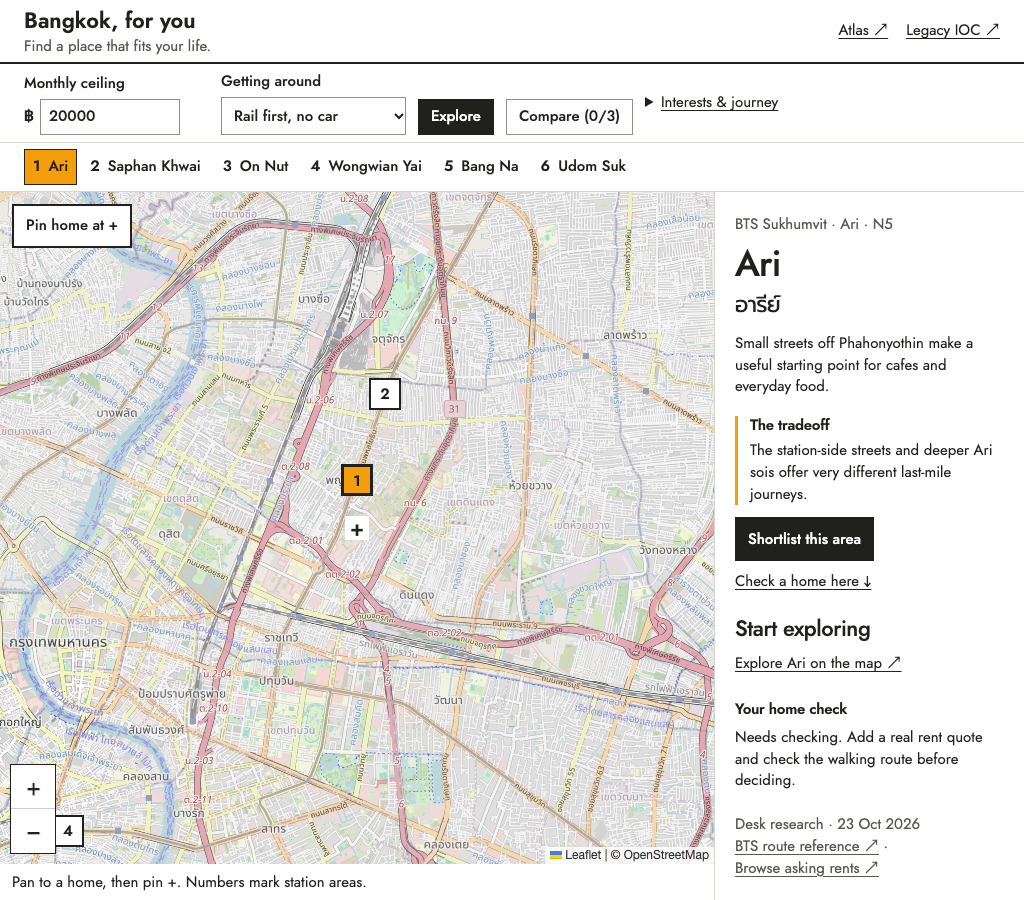
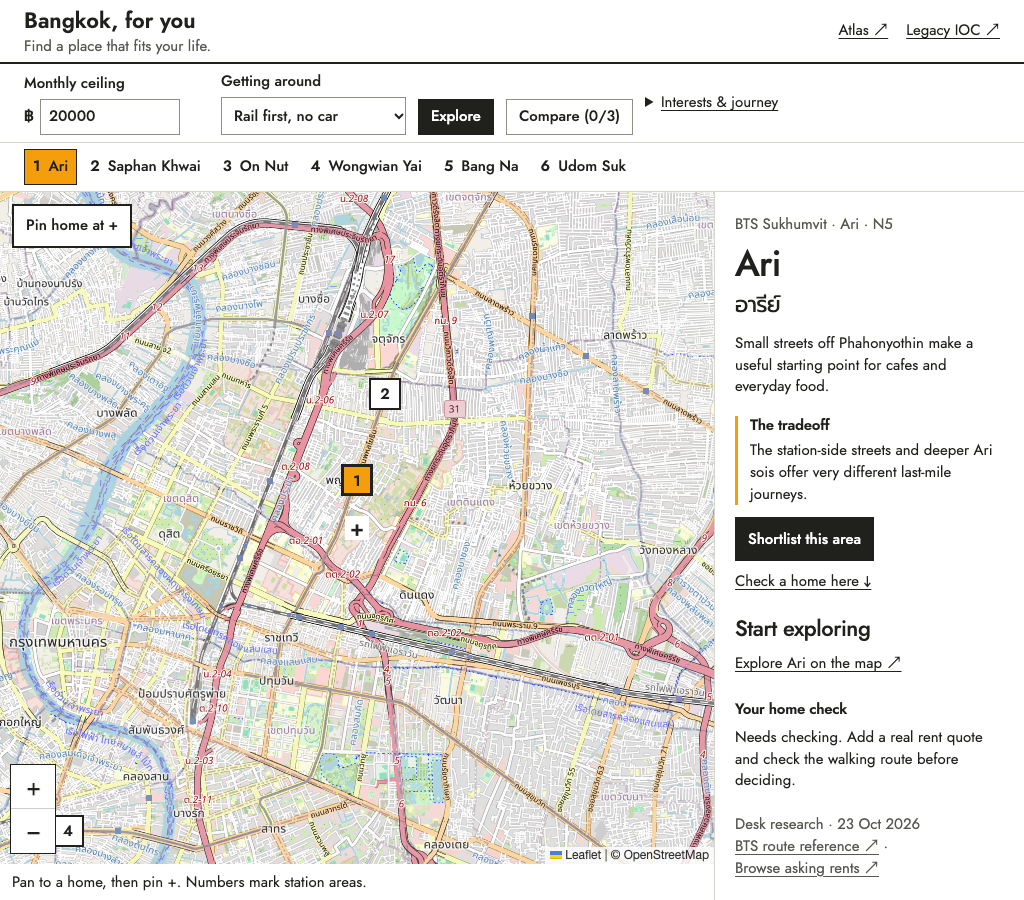
Record production browser verification and preservation checks

diff --git a/docs/revival-2026-10-23/verification/README.md b/docs/revival-2026-10-23/verification/README.md
@@ -7,3 +7,7 @@ Independent rendered review inspected phone/tablet/desktop, comparison and enlar
 Reproduce with `node --test scripts/test-place-fit.mjs`, shared/web builds, then `PILOT_URL=<published /places URL> node scripts/verify-place-fit-browser.mjs`. PLAYWRIGHT_MODULE_PATH and CHROME_PATH select an installed Playwright/Chrome runtime. Test report contains synthetic entries only.
 
 Atlas location evidence is deployed separately at atlas.nonarkara.org/api/location/evidence. Legacy IOC routes and data are retained through the immutable original deployment. The consumer pilot is additive at /places.
+
+## Production closeout
+
+Published source 813388a as Pages production deployment 71caf682. All five browser widths and the complete phone workflow pass against https://bangkok-ioc.pages.dev/places. Root HTML and both original IOC bundles are byte-identical to deployment fa6ccef0. Atlas app.js is byte-identical to its pre-change snapshot; the separate location-evidence endpoint returns valid JSON. Independent review found no release blocker in the final captures. Production captures replace the local captures where dynamic tiles differed.
